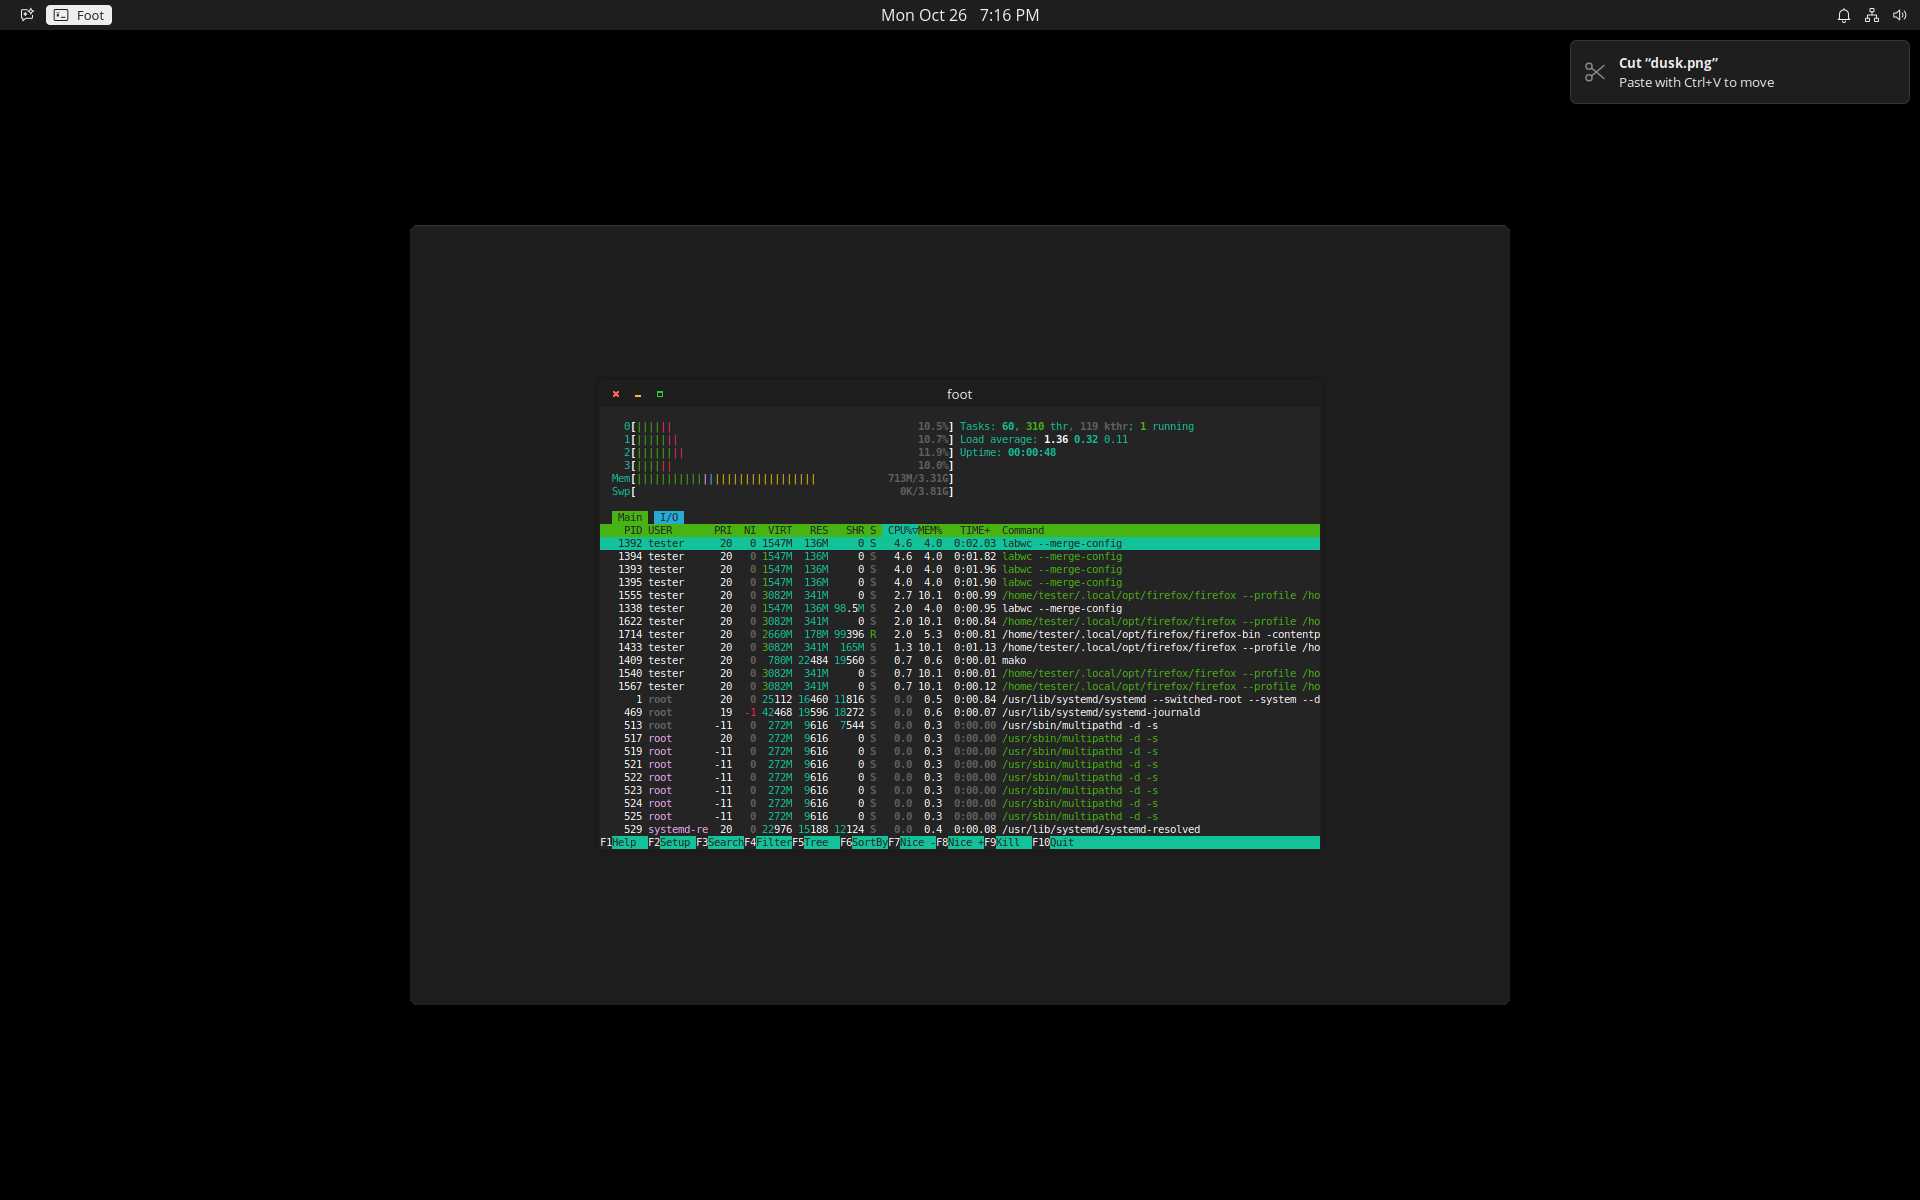
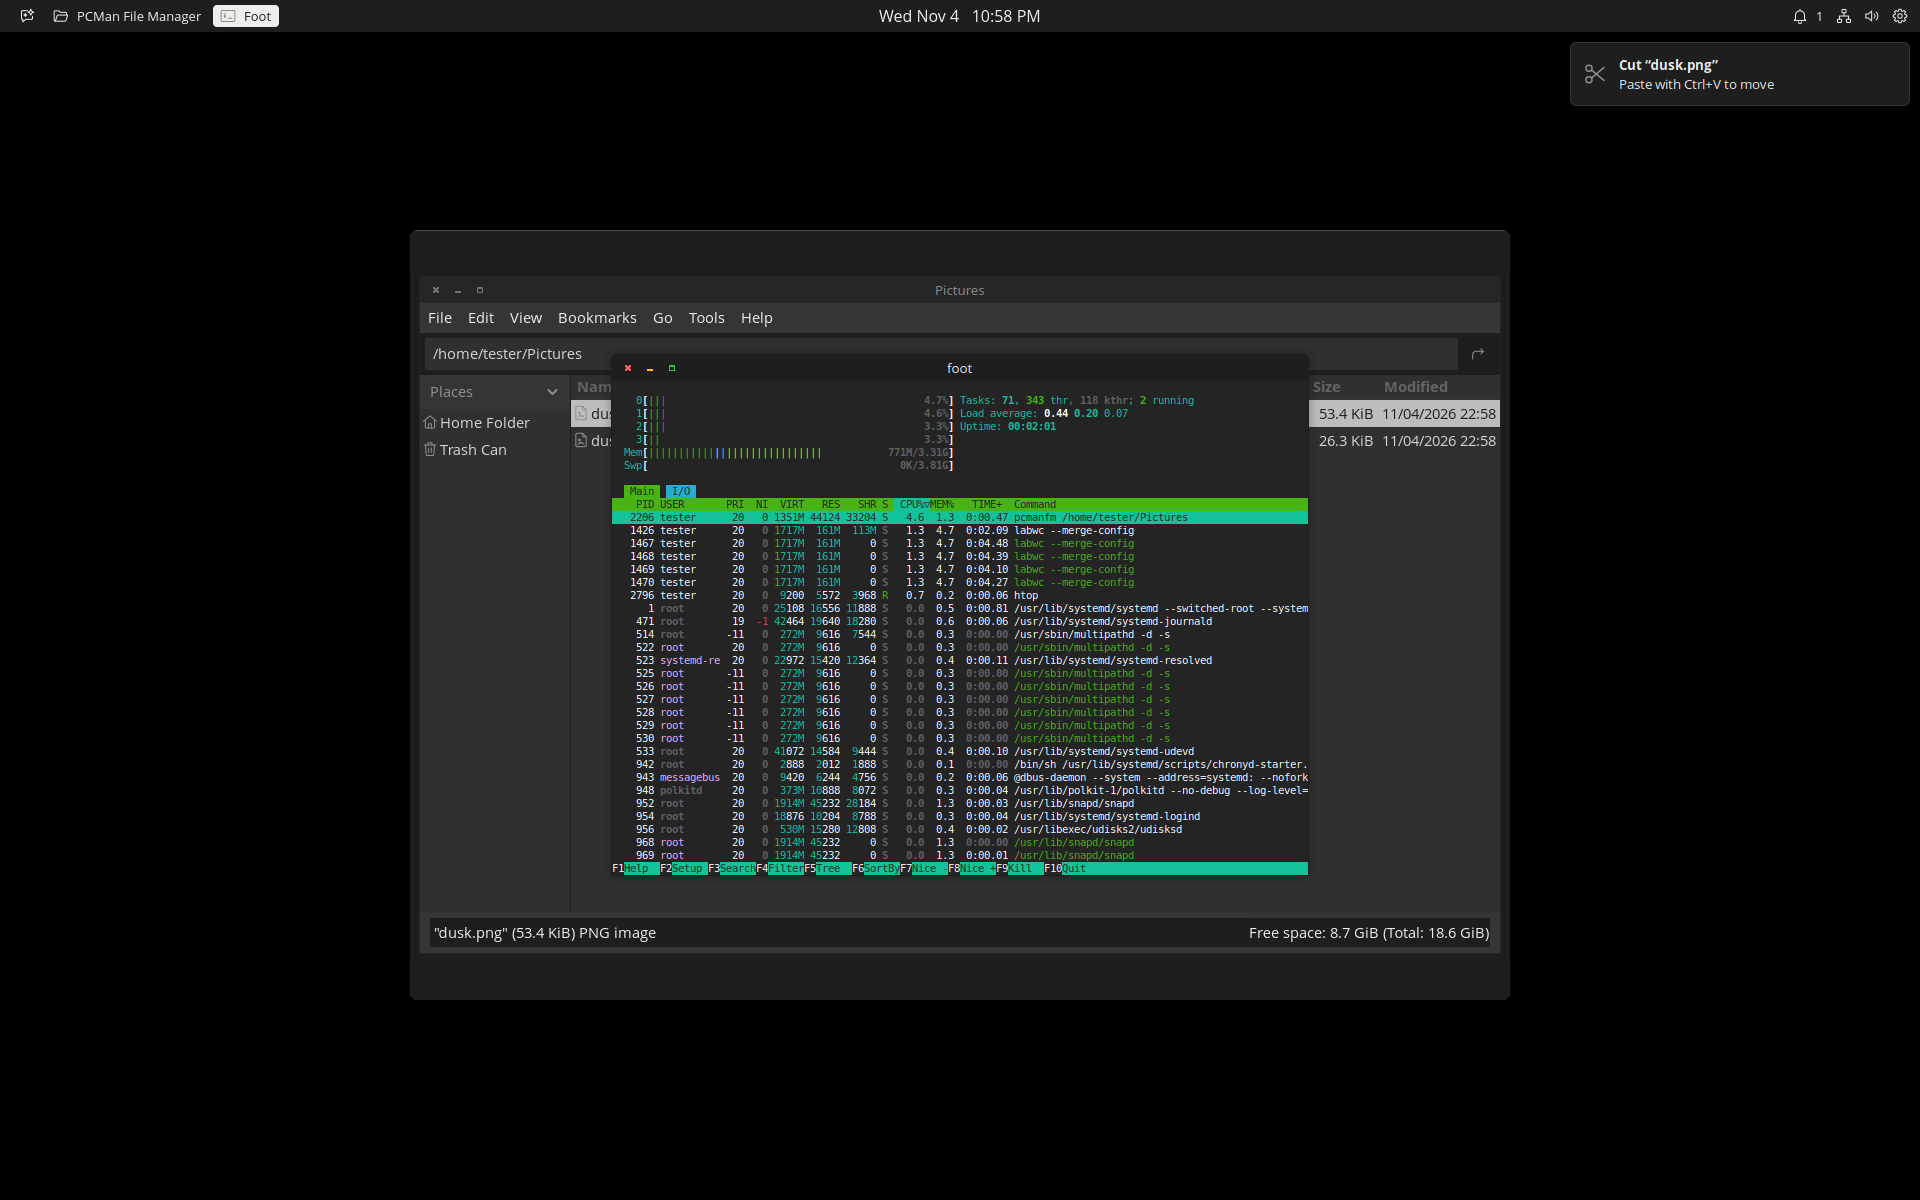
README: beta.4 screenshots, status and how it was made
Dark desktop, launcher, files preview and terminal shots retaken from a clean
1920x1200 VM (colour app icons); new Tinybar system menu shot; the beta.4
battery popover with a week of real draw history. Status line at beta.4, and
"How this was made" now says plainly what the AI agent did and what the
author did.

diff --git a/README.md b/README.md
@@ -14,7 +14,7 @@ dark), and `scripts/check` holds both to WCAG 2.2's contrast minimums.
 It's made for laptops first: careful with the battery, with trackpad motion and scrolling
 modelled on a MacBook's.
 
-> **Status: beta (`v1.0.0-beta.3`).** It's in daily use on one laptop, and installs from
+> **Status: beta (`v1.0.0-beta.4`).** It's in daily use on one laptop, and installs from
 > scratch have only been tested in QEMU and from a USB stick on that same laptop. Expect
 > rough edges, and see [Known gaps](#known-gaps).
 
@@ -31,9 +31,10 @@ modelled on a MacBook's.
 | ![foot running htop, with a "Cut" notification at the top right](docs/screenshots/terminal-notification.png) | ![The swaylock lock screen](docs/screenshots/lock.png) |
 | **Terminal and notifications:** foot with htop, and a notification after a file is cut. | **Lock:** Super+L, or after 5 idle minutes. |
 
-![Tinybar's battery popover: a week of battery draw in watts, with average, peak and time on battery](docs/screenshots/battery-graph.png)
-
-**Battery:** click the battery for its draw over the last 3 hours, 24 hours or 7 days.
+| | |
+| --- | --- |
+| ![Tinybar's battery popover: plugged in and held at 80 %, CPU and memory, above a week of battery draw in watts](docs/screenshots/battery-graph.png) | ![Tinybar's system menu: Light mode, Lock, Restart and More](docs/screenshots/system-menu.png) |
+| **Battery:** click the battery for its state and charge limit (draw and time left when on battery), CPU and memory, above its draw over the last 3 hours, 24 hours or 7 days. | **System menu:** the cog at the right end switches between light and dark, and locks or restarts; More has Suspend, Log out and Power off. |
 
 Screenshots are from a clean install in a VM at 1920×1200, except the battery graph,
 which needs a real battery and comes from a laptop.
@@ -294,11 +295,12 @@ Bug reports are welcome. Please include your hardware and the output of
 
 ## How this was made
 
-limDE grew out of one person's daily-driver laptop setup. It was designed, tested
-and directed by its author over many iterations, and much of the implementation, review
-and documentation was done with AI coding tools working from that guidance. Without that
-tooling, a project of this scope would not have been practical for one person. Every
-change was steered and accepted by a human, and tested on real hardware and in VMs.
+limDE grew out of one person's daily-driver laptop setup, and it was built with heavy use
+of AI. Claude Code, Anthropic's coding agent, wrote most of the code, the install scripts
+and the documentation, and ran the install tests in VMs. Its author decided what limDE
+should be and do, used it every day on the author's own laptop, tested it, reported what
+was wrong, and reviewed and committed the changes. The labwc touchpad patches were made
+the same way; the author couldn't have written them alone.
 
 ## Licence
 
